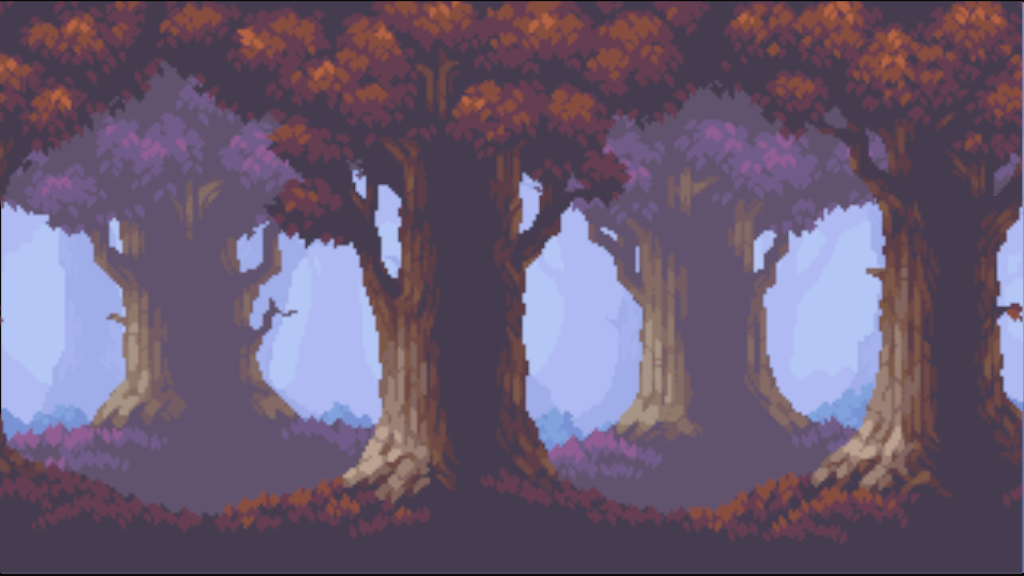
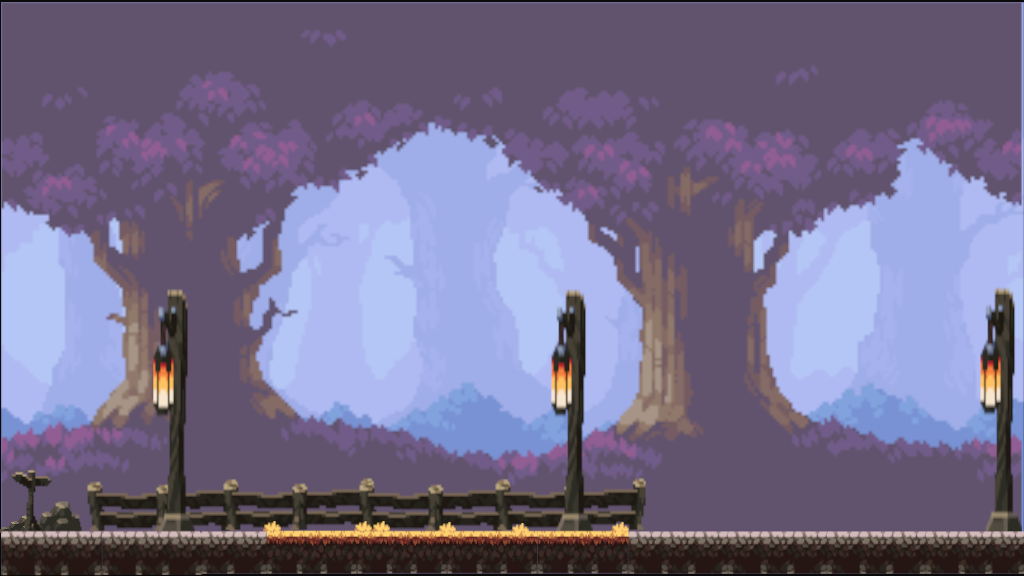
house animation

diff --git a/index.js b/index.js
@@ -16,6 +16,15 @@ const background = new Sprite({
   },
   imageSrc: `./img/background.png`,
 });
+const shop = new Sprite({
+  position: {
+    x: 635,
+    y: 188,
+  },
+  imageSrc: `./img/decorations/shop_anim.png`,
+  scale: 1,
+  framesMax: 6,
+});
 
 const player = new Fighter({
   position: {
@@ -64,45 +73,6 @@ const keys = {
   },
 };
 
-function rectangularCollission({ rectangle1, rectangle2 }) {
-  if (
-    rectangle1.attackBox.position.x + rectangle1.attackBox.width >=
-      rectangle2.position.x &&
-    rectangle1.attackBox.position.x <=
-      rectangle2.position.x + rectangle2.width &&
-    rectangle1.attackBox.position.y + rectangle1.attackBox.height >=
-      rectangle2.position.y &&
-    rectangle1.attackBox.position.y <= rectangle2.position.y + rectangle2.height
-  ) {
-    return true;
-  }
-}
-
-function determineWinner({ player, enemy, timerID }) {
-  clearTimeout(timerID);
-  timer = 0;
-  displayText.style.display = `flex`;
-  if (player.health === enemy.health) {
-    displayText.innerHTML = `Tie`;
-  } else if (player.health > enemy.health) {
-    displayText.innerHTML = `Player 1 Winner`;
-  } else {
-    displayText.innerHTML = `Player 2 Winner`;
-  }
-}
-
-let timer = 10;
-let timerID;
-function decreaseTimer() {
-  if (timer > 0) {
-    timerID = setTimeout(decreaseTimer, 1000);
-    timer--;
-    document.querySelector("#timer").innerHTML = timer;
-  }
-  if (timer === 0) {
-    determineWinner({ player, enemy });
-  }
-}
 decreaseTimer();
 
 function animate() {
@@ -110,6 +80,7 @@ function animate() {
   window.requestAnimationFrame(animate);
   c.fillRect(0, 0, canvas.width, canvas.height);
   background.update();
+  shop.update();
   player.update();
   enemy.update();
 
@@ -173,7 +144,7 @@ window.addEventListener(`keydown`, (event) => {
     case `w`:
       if (
         player.position.y + player.height + player.velocity.y >=
-        canvas.height
+        canvas.height - 45
       ) {
         player.velocity.y = -20;
       }
@@ -193,7 +164,10 @@ window.addEventListener(`keydown`, (event) => {
       break;
 
     case `ArrowUp`:
-      if (enemy.position.y + enemy.height + enemy.velocity.y >= canvas.height) {
+      if (
+        enemy.position.y + enemy.height + enemy.velocity.y >=
+        canvas.height - 45
+      ) {
         enemy.velocity.y = -20;
       }
       break;

diff --git a/js/classes.js b/js/classes.js
@@ -1,18 +1,42 @@
 /////////character/////////////
 class Sprite {
-  constructor({ position, imageSrc }) {
+  constructor({ position, imageSrc, scale = 1, framesMax = 1 }) {
     this.position = position;
     this.width = 50;
     this.height = 150;
     this.image = new Image();
     this.image.src = imageSrc;
+    this.scale = scale;
+    this.framesMax = framesMax;
+    this.framesCurrent = 0;
+    this.framesElapsed = 0;
+    this.framesHold = 5;
   }
   draw() {
-    c.drawImage(this.image, this.position.x, this.position.y);
+    c.drawImage(
+      this.image,
+      this.framesCurrent * (this.image.width / this.framesMax),
+      0,
+      this.image.width / this.framesMax,
+      this.image.height,
+      this.position.x,
+      this.position.y,
+      (this.image.width / this.framesMax) * this.scale,
+      this.image.height * this.scale
+    );
   }
 
   update() {
     this.draw();
+    this.framesElapsed++;
+    if (this.framesElapsed > this.framesHold) {
+      if (this.framesCurrent < this.framesMax - 1) {
+        this.framesCurrent++;
+      } else {
+        this.framesCurrent = 0;
+      }
+      this.framesElapsed = 0;
+    }
   }
 }
 
@@ -61,7 +85,7 @@ class Fighter {
 
     this.position.x += this.velocity.x;
     this.position.y += this.velocity.y;
-    if (this.position.y + this.height + this.velocity.y >= canvas.height) {
+    if (this.position.y + this.height + this.velocity.y >= canvas.height - 45) {
       this.velocity.y = 0;
     } else {
       this.velocity.y += gravity;

diff --git a/js/utils.js b/js/utils.js
@@ -1,0 +1,39 @@
+function rectangularCollission({ rectangle1, rectangle2 }) {
+  if (
+    rectangle1.attackBox.position.x + rectangle1.attackBox.width >=
+      rectangle2.position.x &&
+    rectangle1.attackBox.position.x <=
+      rectangle2.position.x + rectangle2.width &&
+    rectangle1.attackBox.position.y + rectangle1.attackBox.height >=
+      rectangle2.position.y &&
+    rectangle1.attackBox.position.y <= rectangle2.position.y + rectangle2.height
+  ) {
+    return true;
+  }
+}
+
+function determineWinner({ player, enemy, timerID }) {
+  clearTimeout(timerID);
+  timer = 0;
+  displayText.style.display = `flex`;
+  if (player.health === enemy.health) {
+    displayText.innerHTML = `Tie`;
+  } else if (player.health > enemy.health) {
+    displayText.innerHTML = `Player 1 Winner`;
+  } else {
+    displayText.innerHTML = `Player 2 Winner`;
+  }
+}
+
+let timer = 30;
+let timerID;
+function decreaseTimer() {
+  if (timer > 0) {
+    timerID = setTimeout(decreaseTimer, 1000);
+    timer--;
+    document.querySelector("#timer").innerHTML = timer;
+  }
+  if (timer === 0) {
+    determineWinner({ player, enemy });
+  }
+}

diff --git a/index.html b/index.html
@@ -92,6 +92,7 @@
       ></div>
       <canvas></canvas>
     </div>
+    <script src="js/utils.js"></script>
     <script src="js/classes.js"></script>
     <script src="index.js"></script>
   </body>
